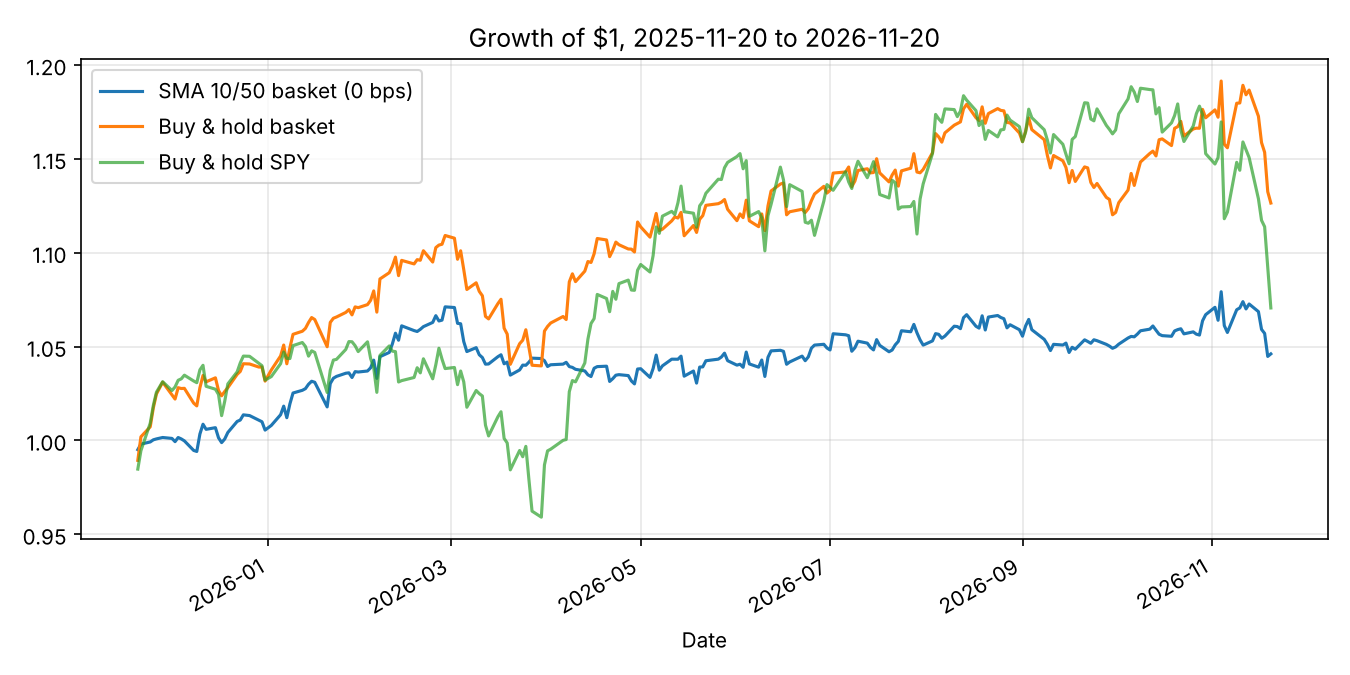
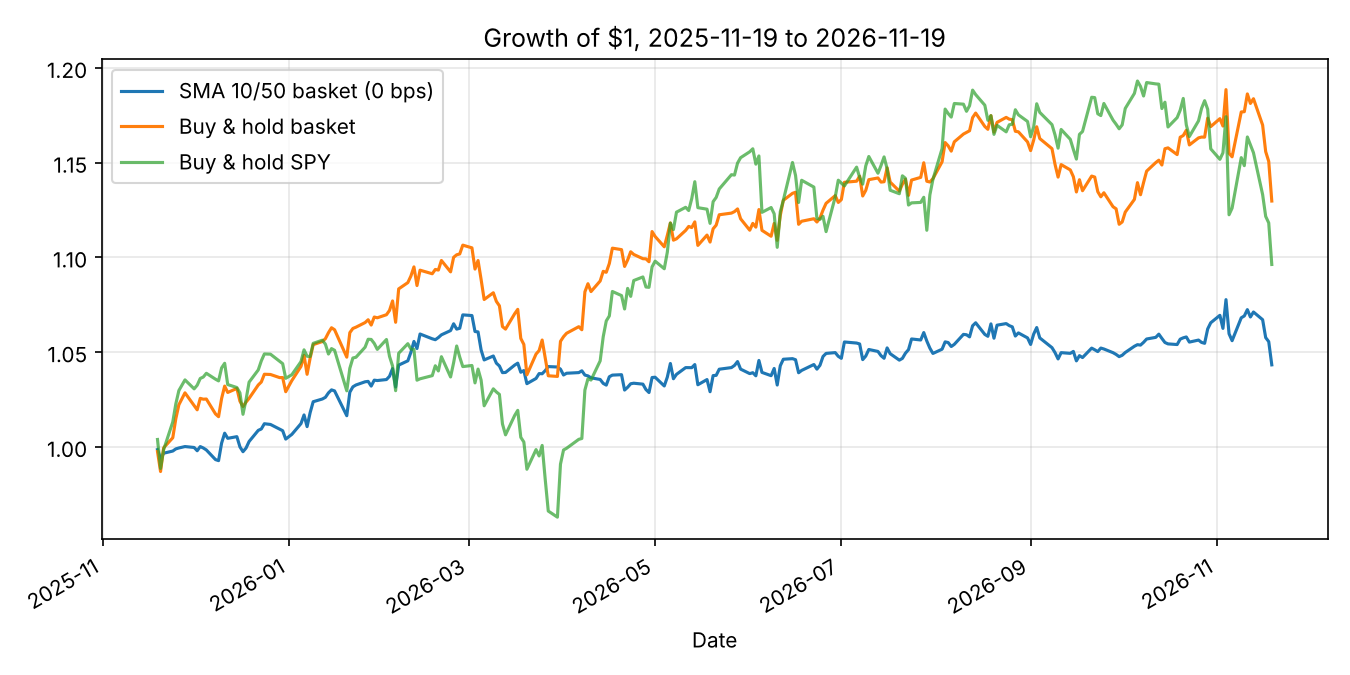
Test rebalance frequency for top 3 rotation; pin end date to a completed day
Claude-Session: https://claude.ai/code/session_01L5nw7BRf2WoPbfTimUV8ob

diff --git a/sector-sma-crossover-backtest/rotation_momentum.py b/sector-sma-crossover-backtest/rotation_momentum.py
@@ -39,6 +39,7 @@ def _(mo):
     | Momentum 6-1 | each ETF on while its 6-1 month return > 0 |
     | Top 3 rotation | each month-end hold the 3 ETFs with the best 12-1 momentum, 1/3 each |
     | Dual momentum | same top 3, but an ETF is held only if its 12-1 momentum is also > 0, else cash |
+    | Top 3 weekly / daily, Dual momentum daily | same rules, re-ranked every week-end or every day instead of month-end |
     | SPY filter, 200-day | hold the equal-weight basket unless SPY is below its 200-day average, then cash |
     | SPY filter, momentum | hold the basket unless SPY's 12-1 return is < 0, then cash |
 
@@ -48,7 +49,7 @@ def _(mo):
 
 @app.cell
 def _(Path, os, pd, yf):
-    end = pd.Timestamp(os.environ.get("BACKTEST_END", "2026-11-20"))
+    end = pd.Timestamp(os.environ.get("BACKTEST_END", "2026-11-19"))
     universes = {
         "Sectors": [
             "XLK",
@@ -111,6 +112,9 @@ def _(pd, prices):
     month_ends = (
         prices.index.to_series().groupby(prices.index.to_period("M")).last().to_numpy()
     )
+    week_ends = (
+        prices.index.to_series().groupby(prices.index.to_period("W")).last().to_numpy()
+    )
     spy = prices["SPY"]
     spy_above_200 = (spy > spy.rolling(200).mean()).astype(float)
     spy_mom_ok = (spy.shift(21) / spy.shift(252) - 1 > 0).astype(float)
@@ -121,8 +125,11 @@ def _(pd, prices):
         mom12 = px.shift(21) / px.shift(252) - 1
         mom6 = px.shift(21) / px.shift(126) - 1
         top3 = (mom12.rank(axis=1, ascending=False) <= 3) & mom12.notna()
-        rotation = (top3 / 3).loc[month_ends].reindex(px.index).ffill()
-        dual = ((top3 & (mom12 > 0)) / 3).loc[month_ends].reindex(px.index).ffill()
+        top3_w = top3 / 3
+        dual_w = (top3 & (mom12 > 0)) / 3
+        rotation = top3_w.loc[month_ends].reindex(px.index).ffill()
+        dual = dual_w.loc[month_ends].reindex(px.index).ffill()
+        rotation_weekly = top3_w.loc[week_ends].reindex(px.index).ffill()
         equal = pd.DataFrame(1.0 / n, index=px.index, columns=tickers)
         raw = {
             "Buy & hold": equal,
@@ -131,6 +138,9 @@ def _(pd, prices):
             "Momentum 6-1": (mom6 > 0) / n,
             "Top 3 rotation": rotation,
             "Dual momentum": dual,
+            "Top 3 weekly": rotation_weekly,
+            "Top 3 daily": top3_w,
+            "Dual momentum daily": dual_w,
             "SPY filter, 200-day": equal.mul(spy_above_200, axis=0),
             "SPY filter, momentum": equal.mul(spy_mom_ok, axis=0),
         }

diff --git a/sector-sma-crossover-backtest/backtest.py b/sector-sma-crossover-backtest/backtest.py
@@ -37,7 +37,7 @@ def _(mo):
 
 @app.cell
 def _(Path, os, pd, yf):
-    end = pd.Timestamp(os.environ.get("BACKTEST_END", "2026-11-20"))
+    end = pd.Timestamp(os.environ.get("BACKTEST_END", "2026-11-19"))
     start = end - pd.DateOffset(years=1)
     sectors = {
         "XLK": "Technology", "XLF": "Financials", "XLE": "Energy",

diff --git a/sector-sma-crossover-backtest/position_sizing.py b/sector-sma-crossover-backtest/position_sizing.py
@@ -42,7 +42,7 @@ def _(mo):
 
 @app.cell
 def _(Path, os, pd, yf):
-    end = pd.Timestamp(os.environ.get("BACKTEST_END", "2026-11-20"))
+    end = pd.Timestamp(os.environ.get("BACKTEST_END", "2026-11-19"))
     etfs = [
         "XLK",
         "XLF",

diff --git a/sector-sma-crossover-backtest/README.md b/sector-sma-crossover-backtest/README.md
@@ -2,7 +2,7 @@
 
 ## What it shows
 
-A one-year backtest (2025-11-20 to 2026-11-20, 252 trading days) of a simple rule on the 11 SPDR sector ETFs
+A one-year backtest (2025-11-19 to 2026-11-19, 252 trading days) of a simple rule on the 11 SPDR sector ETFs
 (XLK, XLF, XLE, XLV, XLY, XLP, XLI, XLU, XLB, XLRE, XLC): hold an ETF while its 10-day simple moving
 average is above its 50-day average, otherwise hold cash. Capital is split equally across the 11.
 
@@ -17,127 +17,126 @@ average is above its 50-day average, otherwise hold cash. Capital is split equal
 ./run.sh
 ```
 
-Needs `uv` and internet. The notebook is `backtest.py` (marimo). It prints the tables and writes
-`outputs/equity_curves.png`, `outputs/results.csv` and `outputs/per_etf.csv`.
-Set `BACKTEST_END=YYYY-MM-DD` to move the window.
+Needs `uv` and internet. Notebooks (marimo, run as scripts): `backtest.py`, `position_sizing.py`,
+`rotation_momentum.py`. Results go to `outputs/`. Set `BACKTEST_END=YYYY-MM-DD` to move the end date;
+the default is the last completed day when this was written.
 
 ## Data
 
-Daily dividend-adjusted closes from Yahoo Finance via the `yfinance` library, downloaded at run time
-and not committed. Prices from 6 months before the window are loaded only to warm up the 50-day average.
-The final day's price can still change after the close, and Yahoo adjusts past prices for dividends, so
-re-running can shift the numbers (the same window moved the basket from 4.72% to 4.58% across three runs
-on 2026-11-20, mostly from the last day's XLK price).
+Daily dividend-adjusted closes from Yahoo Finance via `yfinance`, downloaded at run time, not
+committed. Yahoo restates adjusted prices and an unfinished day keeps moving, so results can shift
+slightly between runs (one run moved the basket from 4.72% to 4.58%). The end date is a completed day.
 
 ## Results (from the run in `outputs/`)
 
 | Strategy | Return % | Ann. vol % | Sharpe | Max drawdown % | Time invested % |
 |---|---|---|---|---|---|
-| SMA 10/50 basket, no costs | 4.58 | 6.61 | 0.71 | -3.83 | 61.9 |
-| SMA 10/50 basket, 5 bps/trade | 4.16 | 6.61 | 0.65 | -3.90 | 61.9 |
-| SMA 10/50 basket, 10 bps/trade | 3.74 | 6.62 | 0.59 | -3.98 | 61.9 |
-| Buy & hold, equal-weight basket | 12.64 | 10.15 | 1.22 | -6.26 | 100 |
-| Buy & hold SPY | 7.20 | 14.00 | 0.57 | -9.80 | 100 |
+| SMA 10/50 basket, no costs | 4.32 | 6.61 | 0.67 | -3.83 | 61.8 |
+| SMA 10/50 basket, 5 bps/trade | 3.9 | 6.61 | 0.61 | -3.9 | 61.8 |
+| SMA 10/50 basket, 10 bps/trade | 3.48 | 6.62 | 0.55 | -3.98 | 61.8 |
+| Buy & hold, equal-weight basket | 12.97 | 10.14 | 1.25 | -6.26 | 100.0 |
+| Buy & hold SPY | 9.62 | 13.88 | 0.73 | -8.88 | 100.0 |
 
 89 position changes across the 11 ETFs (about 8 each), counting entries on day one for ETFs already
 above their 50-day average.
 
-Per ETF, the rule beat that ETF's own buy-and-hold in 1 of 11 cases (XLI, +5.9 points). Largest
-shortfalls: XLB -17.7, XLE -21.8, XLP -16.8 points. See `outputs/per_etf.csv`.
+Per ETF, the rule beat that ETF's own buy-and-hold in 1 of 11 cases (XLI). Largest
+shortfalls: XLE -20.8, XLB -18.1, XLP -15.5 points. See `outputs/per_etf.csv`.
 
 ## Position sizing variants (`position_sizing.py`)
 
 Same signal, different sizes: thirds in, Fibonacci tranches (1,1,2,3,5) in, Fibonacci in and out,
-a Fibonacci win/loss progression, trend-strength sizing and inverse-volatility sizing. Results for
-the last 1 and 5 years are in `outputs/sizing_1_year.csv` and `outputs/sizing_5_years.csv`; the
-notebook prints them with exposure, drawdown and turnover.
-
-Return % (before costs) for the basket of 11 ETFs:
+a Fibonacci win/loss progression, trend-strength sizing and inverse-volatility sizing.
+Return % before costs for the 11-ETF basket (all variants are in `outputs/sizing_*.csv`):
 
 | Variant | 1 year | 5 years | Avg. exposure % (1y) |
 |---|---|---|---|
-| Baseline all-in/all-out | 4.58 | 9.66 | 62 |
-| Thirds in | 5.67 | 9.41 | 60 |
-| Fibonacci in | 5.51 | 8.34 | 58 |
-| Fibonacci in and out | 6.00 | 9.99 | 60 |
-| Fibonacci progression | 0.54 | 0.91 | 8 |
-| Trend strength | 1.99 | 9.72 | 41 |
-| Inverse volatility | 2.69 | 6.44 | 37 |
-| Buy & hold basket | 12.64 | 55.80 | 100 |
+| Baseline | 4.32 | 9.01 | 62 |
+| Fibonacci in | 5.25 | 7.7 | 58 |
+| Fibonacci in and out | 5.75 | 9.34 | 59 |
+| Trend strength | 1.78 | 9.06 | 41 |
+| Buy & hold basket | 12.97 | 55.82 | 100 |
 
-Fibonacci progression starts each trade at 1/8 size, so it was invested about 8% of the time and
-is not comparable on return. Sizing changes were small next to the gap to buy-and-hold.
+Fibonacci progression (not shown) starts each trade at 1/8 size, was invested about 8% of the time
+and is not comparable on return. Sizing changes were small next to the gap to buy-and-hold.
 
 ## Momentum, rotation and market filters (`rotation_momentum.py`)
 
 Asks whether momentum (trailing return) instead of price averages, rotating into the strongest ETFs,
 or a market-wide filter can get ahead of big selloffs. Run on the 11 sectors and on 10 country ETFs
-(SPY, EWC, EWU, EWG, EWJ, MCHI, INDA, EWZ, EWA, EWY, in US dollars). Rules are in the notebook; windows
-(12-1 and 6-1 month momentum, top 3, 200-day filter) were set once, not tuned. Cash earns 0%.
-All strategies and windows, including 6-1 momentum and dual momentum, are in `outputs/rotation_*.csv`.
+(SPY, EWC, EWU, EWG, EWJ, MCHI, INDA, EWZ, EWA, EWY, in US dollars). Windows (12-1 and 6-1 month
+momentum, top 3, 200-day filter) were set once, not tuned. Cash earns 0%. All strategies and windows
+are in `outputs/rotation_*.csv`.
 
 **Sectors**
 
 | Strategy | Return % since 2019-07 | Max drawdown % | Covid crash % | 2022 bear % |
 |---|---|---|---|---|
-| Buy & hold | 133.43 | -36.34 | -36.21 | -18.13 |
-| SMA 10/50 | 43.76 | -13.02 | -7.7 | -11.31 |
-| Momentum 12-1 | 72.12 | -31.39 | -31.3 | -10.21 |
-| Top 3 rotation | 166.39 | -31.5 | -31.5 | -2.56 |
+| Buy & hold | 134.38 | -36.34 | -36.21 | -18.13 |
+| SMA 10/50 | 43.49 | -13.02 | -7.7 | -11.31 |
+| Top 3 rotation | 169.48 | -31.5 | -31.5 | -2.56 |
 | SPY filter, 200-day | 99.35 | -16.72 | -16.12 | -6.06 |
-| SPY filter, momentum | 107.08 | -36.34 | -36.21 | -6.64 |
+| SPY filter, momentum | 107.92 | -36.34 | -36.21 | -6.64 |
 
 **Countries**
 
 | Strategy | Return % since 2019-07 | Max drawdown % | Covid crash % | 2022 bear % |
 |---|---|---|---|---|
-| Buy & hold | 82.59 | -38.78 | -36.89 | -22.12 |
-| SMA 10/50 | 40.05 | -17.39 | -3.7 | -9.98 |
-| Momentum 12-1 | 26.67 | -37.93 | -35.84 | -3.87 |
-| Top 3 rotation | 75.03 | -40.81 | -40.11 | -19.28 |
+| Buy & hold | 85.48 | -38.78 | -36.89 | -22.12 |
+| SMA 10/50 | 40.11 | -17.39 | -3.7 | -9.98 |
+| Top 3 rotation | 81.08 | -40.81 | -40.11 | -19.28 |
 | SPY filter, 200-day | 66.51 | -16.99 | -12.64 | -1.9 |
-| SPY filter, momentum | 68.18 | -38.78 | -36.89 | -7.27 |
+| SPY filter, momentum | 70.84 | -38.78 | -36.89 | -7.27 |
 
-In both universes only two rules cut the max drawdown by more than half: SMA 10/50 and the SPY
-200-day filter. The filter kept more of the buy-and-hold return (sectors 99 vs 44, countries 67 vs 40). The SPY 12-1 momentum filter stayed invested through the Covid crash,
-since the prior year's return was still positive in February 2020. Rotation and dual momentum
-results depend on which few ETFs led, and the country version did not beat buy-and-hold on drawdown.
-Two selloffs are a small sample.
+Only SMA 10/50 and the SPY 200-day filter cut max drawdown by more than half; the filter kept more
+return. The SPY 12-1 momentum filter stayed invested through Covid, since the prior year's return was
+still positive. Rotation depends on which few ETFs led. Two selloffs are a small sample.
+
+**Rebalance frequency for top 3 rotation** (re-ranking at month-end, week-end or every day):
+
+| Universe | Re-rank | Return % | Net of 5 bps % | Max drawdown % | 2022 bear % |
+|---|---|---|---|---|---|
+| Sectors | Monthly | 169.48 | 164.73 | -31.5 | -2.56 |
+| Sectors | Weekly | 196.98 | 182.54 | -33.59 | 0.15 |
+| Sectors | Daily | 234.81 | 202.48 | -32.27 | -1.58 |
+| Countries | Monthly | 81.08 | 77.48 | -40.81 | -19.28 |
+| Countries | Weekly | 114.47 | 106.09 | -36.71 | -16.64 |
+| Countries | Daily | 102.9 | 83.96 | -38.68 | -19.36 |
+
+Weekly and daily re-ranking beat monthly in both universes, before and after 5 bps. Daily lost the
+most to costs (about 32 points in sectors, 19 in countries). Drawdowns changed little.
 
 ## By calendar year (`rotation_momentum.py`)
 
-Return %. `*` marks a partial year (2019 from July, 2026 to Nov 20). Max drawdown per year and the other strategies are in `outputs/yearly_*.csv`.
+Return %. `*` marks a partial year (2019 from July, 2026 to Nov 19). Drawdown per year and the other
+strategies are in `outputs/yearly_*.csv`.
 
 **Sectors**
 
 | Strategy | 2019* | 2020 | 2021 | 2022 | 2023 | 2024 | 2025 | 2026* |
 |---|---|---|---|---|---|---|---|---|
-| Buy & hold | 7.1 | 10.8 | 29.9 | -10.5 | 17.0 | 16.6 | 13.5 | 9.2 |
-| SMA 10/50 | 0.9 | 12.2 | 17.3 | -10.7 | 5.2 | 8.8 | 1.8 | 4.0 |
-| Top 3 rotation | 7.2 | 16.1 | 21.0 | 9.2 | 13.5 | 18.6 | 12.3 | 6.9 |
+| Buy & hold | 7.1 | 10.8 | 29.9 | -10.5 | 17.0 | 16.6 | 13.5 | 9.8 |
+| SMA 10/50 | 0.9 | 12.2 | 17.3 | -10.7 | 5.2 | 8.8 | 1.8 | 3.9 |
+| Top 3 rotation | 7.2 | 16.1 | 21.0 | 9.2 | 13.5 | 18.6 | 12.3 | 8.4 |
 | SPY filter, 200-day | 7.1 | 6.9 | 29.9 | -8.4 | 7.7 | 16.6 | 10.8 | 5.3 |
-| SPY filter, momentum | 5.3 | 1.0 | 29.9 | -6.6 | 9.5 | 16.6 | 15.1 | 9.2 |
 
 **Countries**
 
 | Strategy | 2019* | 2020 | 2021 | 2022 | 2023 | 2024 | 2025 | 2026* |
 |---|---|---|---|---|---|---|---|---|
-| Buy & hold | 5.8 | 11.6 | 6.0 | -12.1 | 17.1 | 3.3 | 33.4 | 2.7 |
-| SMA 10/50 | 1.1 | 24.7 | 1.2 | -5.9 | 7.3 | -4.0 | 14.0 | -0.7 |
-| Top 3 rotation | 6.0 | 12.7 | 10.0 | -13.0 | 3.5 | 2.9 | 24.0 | 15.6 |
+| Buy & hold | 5.8 | 11.6 | 6.0 | -12.1 | 17.1 | 3.3 | 33.4 | 4.5 |
+| SMA 10/50 | 1.1 | 24.7 | 1.2 | -5.9 | 7.3 | -4.0 | 14.0 | -0.6 |
+| Top 3 rotation | 6.0 | 12.7 | 10.0 | -13.0 | 3.5 | 2.9 | 24.0 | 19.9 |
 | SPY filter, 200-day | 5.8 | 17.6 | 6.0 | -3.7 | 6.1 | 3.3 | 23.7 | -3.4 |
-| SPY filter, momentum | 4.5 | 6.2 | 6.0 | -7.3 | 8.8 | 3.3 | 33.4 | 2.7 |
 
-No strategy was best in every year. In sectors, buy and hold led in 2023 and tied the SPY filters in 2021;
-top-3 rotation led 2020 and 2022. In countries, the 10/50 SMA led 2020 and the 200-day filter led 2022.
+No strategy was best in every year.
 
 ## What didn't work / failure cases
 
-- The crossover trailed buy-and-hold on return in this window. It had lower volatility and a smaller
-  drawdown, partly because it was in cash about 38% of the time.
-- Sectors with strong trends but sharp dips (energy, materials, staples) lost the most, since the
-  rule exits after a dip and re-enters late.
-- Whipsaw: utilities and materials traded 11 times each.
+- The crossover trailed buy-and-hold on return in the one-year window, with lower volatility and
+  a smaller drawdown, partly from being in cash about 38% of the time.
+- Strong-trend sectors with sharp dips (energy, materials, staples) lost the most, since the rule
+  exits after a dip and re-enters late. Utilities and materials traded 11 times each.
 
 ## What it doesn't show
 
@@ -146,5 +145,5 @@ top-3 rotation led 2020 and 2022. In countries, the 10/50 SMA led 2020 and the 2
 - Buy-and-hold baskets are rebalanced daily, a simplification.
 
 ## What I looked at first
-`yfinance` for data and `pandas` rolling means for the averages. Backtesting libraries such as
-`vectorbt` or `backtrader` were not used, since a one-rule backtest is a few lines of pandas.
+`yfinance` for data and `pandas` for the averages. Backtesting libraries such as `vectorbt` or
+`backtrader` were not used, since these rules are a few lines of pandas.
